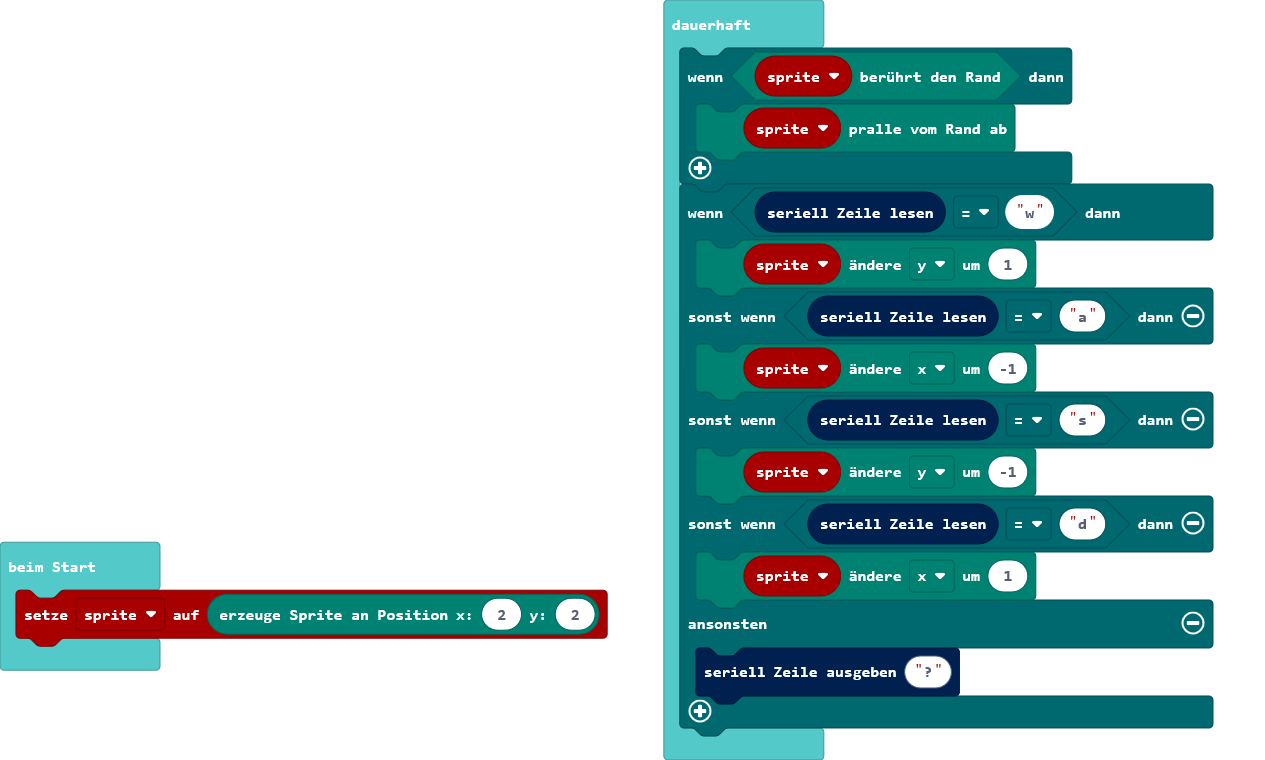
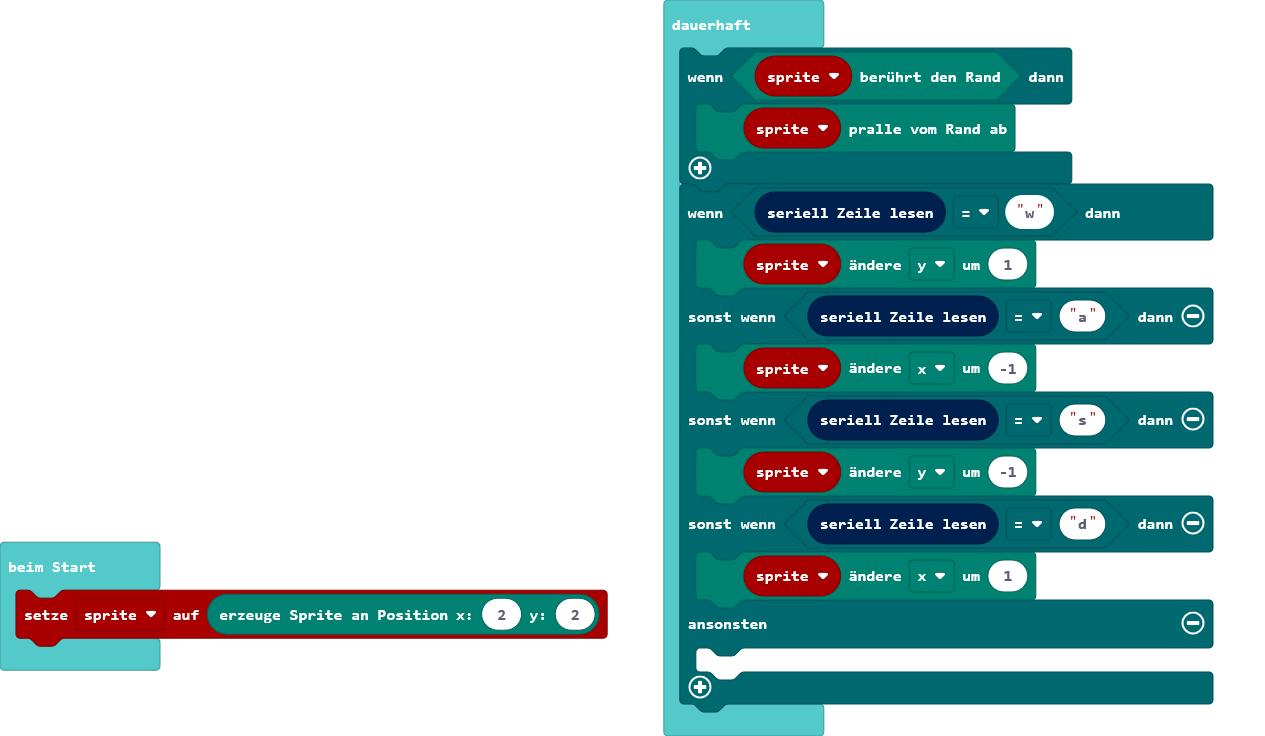
Aktualisiere main.blocks, main.ts

Changed region(s): [[0.5241, 0.25, 0.9866, 0.9688], [0.0, 0.6875, 0.4933, 0.9375], [0.5241, 0.0312, 0.9557, 0.25]]

diff --git a/main.ts b/main.ts
@@ -12,6 +12,6 @@ basic.forever(function () {
     } else if (serial.readLine() == "d") {
         sprite.change(LedSpriteProperty.X, 1)
     } else {
-        serial.writeLine("?")
+    	
     }
 })
